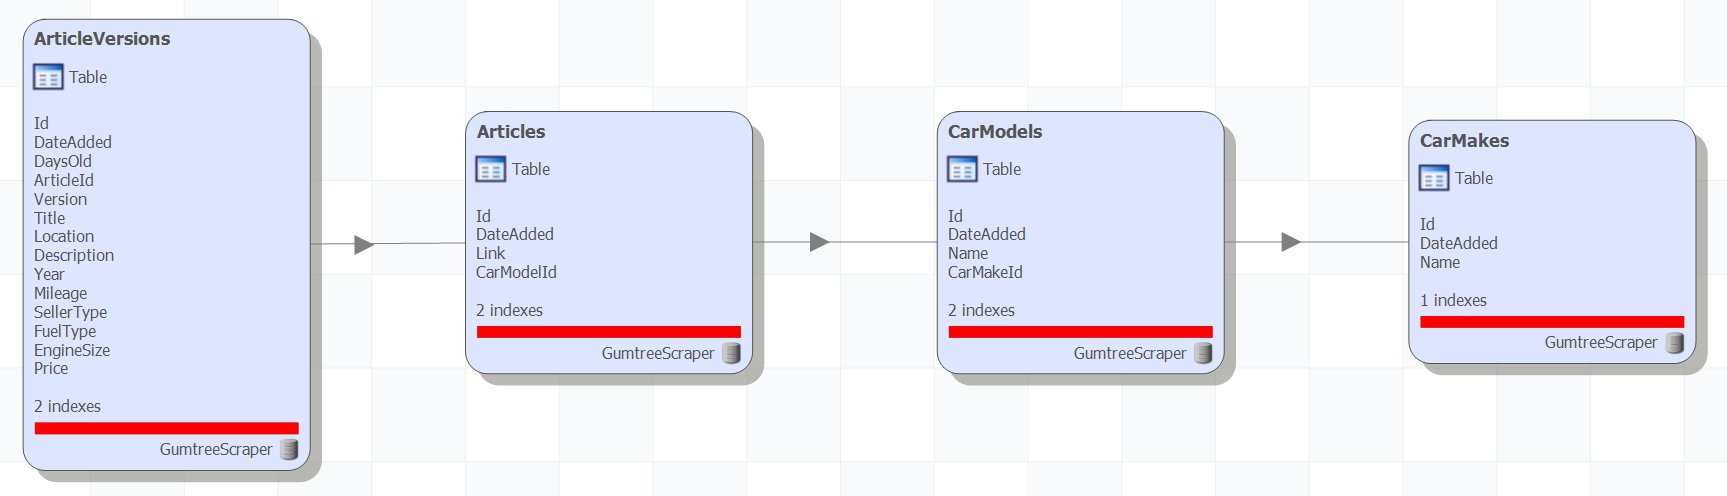
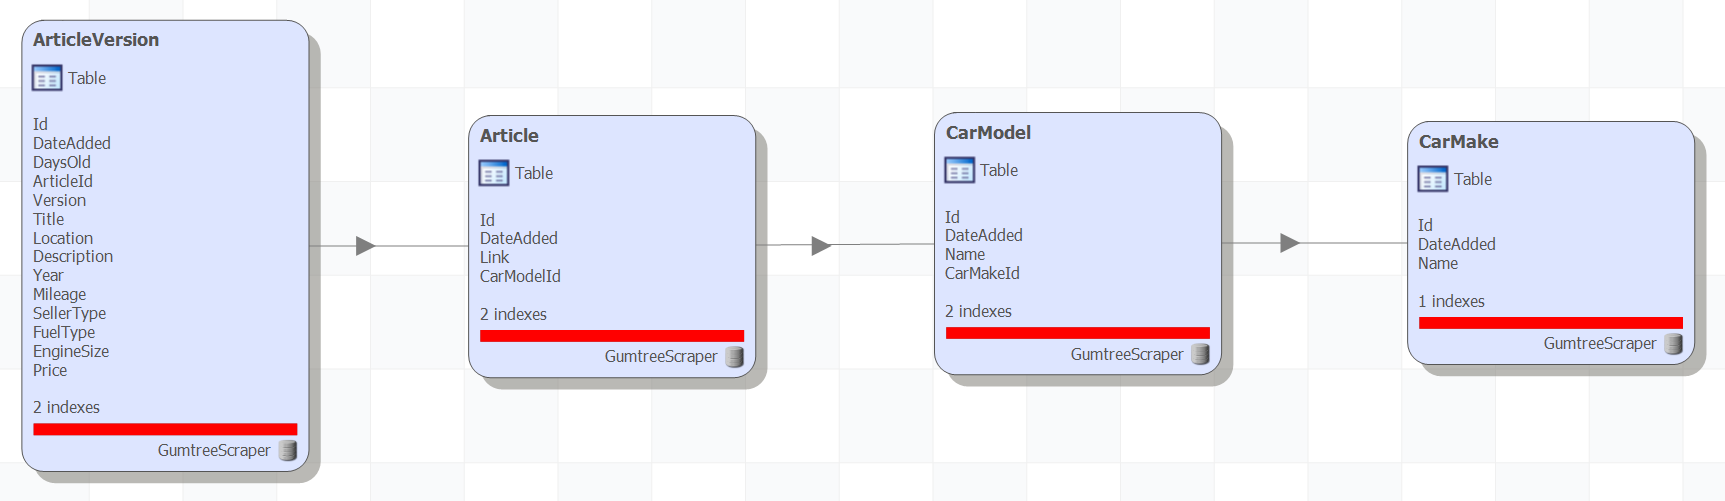
Changed db names from plural to singular.

diff --git a/GumtreeScraper.DataAccess/GumtreeScraperContext.cs b/GumtreeScraper.DataAccess/GumtreeScraperContext.cs
@@ -17,10 +17,10 @@ namespace GumtreeScraper.DataAccess
         {
             modelBuilder.Conventions.Remove<OneToManyCascadeDeleteConvention>();
 
-            modelBuilder.Entity<CarMake>().ToTable("CarMakes");
-            modelBuilder.Entity<CarModel>().ToTable("CarModels");
-            modelBuilder.Entity<Article>().ToTable("Articles");
-            modelBuilder.Entity<ArticleVersion>().ToTable("ArticleVersions");
+            modelBuilder.Entity<CarMake>().ToTable("CarMake");
+            modelBuilder.Entity<CarModel>().ToTable("CarModel");
+            modelBuilder.Entity<Article>().ToTable("Article");
+            modelBuilder.Entity<ArticleVersion>().ToTable("ArticleVersion");
         }
 
         public DbSet<CarMake> CarMakes { get; set; }
